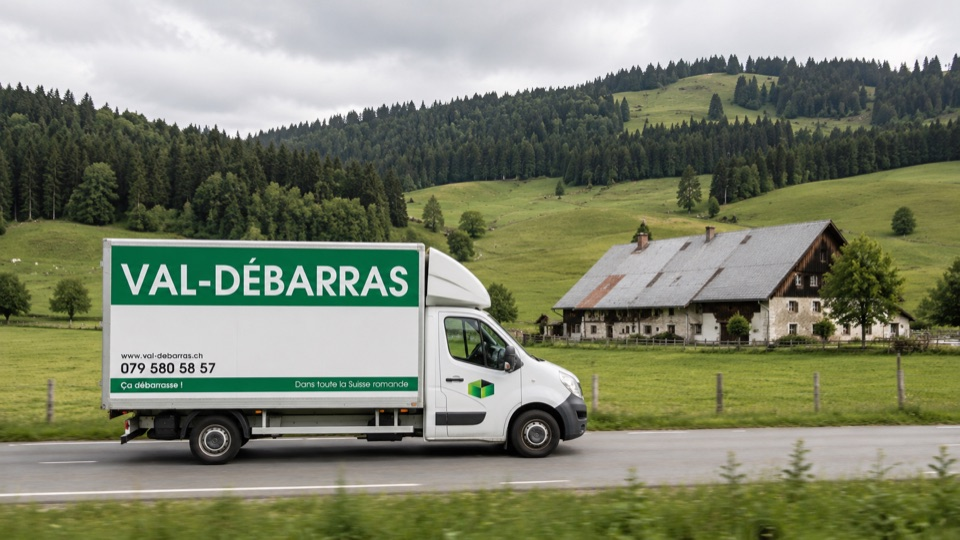
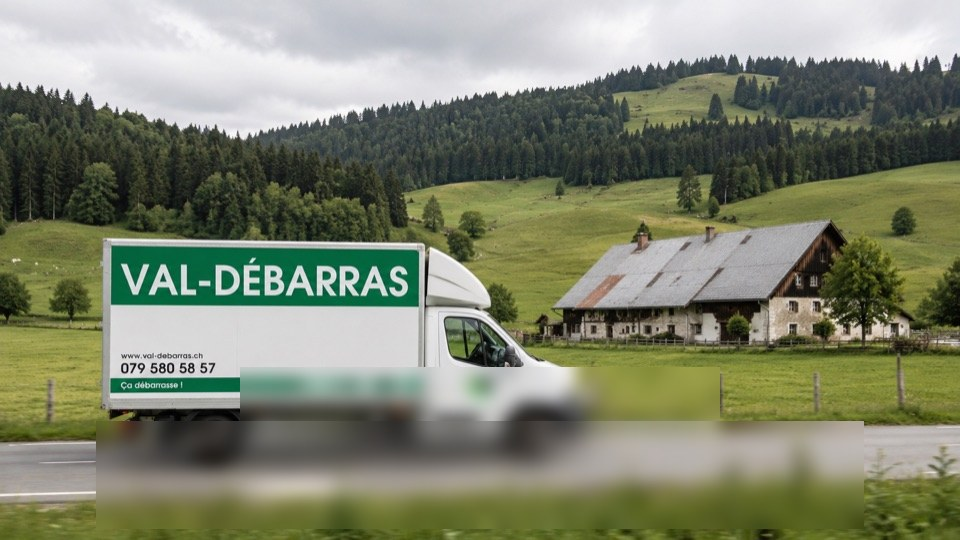
fix(mobile): menu service-first + hero image + floutage plaques
- Hamburger drawer restructuré : services en accordéon de premier niveau, cantons comme liens texte à l'intérieur (sans images répétées)
- Restauration de l'image hero sur mobile (200px, border-radius)
- Masquage limité aux grilles multi-photos (.pm-cell, .about-photos, .fc-photo-grid)
- Floutage des plaques d'immatriculation sur 15 photos de véhicules (PIL pixelation + Gaussian blur)

Changed region(s): [[0.0938, 0.6815, 0.9062, 0.9778]]

diff --git a/index.html b/index.html
@@ -1631,11 +1631,11 @@ body{font-size:16px;line-height:1.7;}
 .drawer-cantons{display:none;padding:0 0 10px 4px;}
 .drawer-cantons.open{display:block;}
 .drawer-cantons a{
-  display:flex;align-items:center;gap:10px;
-  padding:12px 8px;font-size:15px;border-radius:8px;min-height:44px;
+  display:block;
+  padding:10px 8px 10px 16px;font-size:14px;border-radius:8px;
+  color:#374151;font-weight:500;text-decoration:none;transition:background .15s;
 }
-.drawer-cantons a:hover{background:var(--gris-bg);}
-.drawer-cantons .canton-icon{width:22px;height:28px;}
+.drawer-cantons a:hover{background:var(--vert-clair);color:var(--vert);}
 .drawer-actions{margin-top:16px;display:flex;flex-direction:column;gap:10px;width:100%;}
 .drawer-phone{
   display:flex;align-items:center;justify-content:center;gap:10px;
@@ -1691,7 +1691,6 @@ body{font-size:16px;line-height:1.7;}
   body.has-sticky-mobile{padding-bottom:88px;}
 
   .hero-desktop{display:none !important;}
-  .hero-img{display:none !important;}
 
   .stats-inner{grid-template-columns:repeat(2,1fr) !important;}
   .stat{padding:18px 12px !important;}
@@ -1715,18 +1714,11 @@ body{font-size:16px;line-height:1.7;}
     transition:none !important;
   }
 }
-/* === Drawer canton-first service list === */
 .drawer-title{display:flex;align-items:center;gap:10px;}
-.drawer-svc-list a{
-  display:block;padding:9px 12px 9px 32px;font-size:14px;color:#374151;font-weight:500;
-  text-decoration:none;border-radius:6px;transition:background .15s;
-}
-.drawer-svc-list a:hover{background:#f0fdf4;color:var(--vert);}
 
-/* Hide all raster photos on mobile */
+/* Hide heavy photo grids on mobile, keep hero image visible */
 @media (max-width:768px){
-  /* Hero, about, contact photo grids */
-  .hero-img,
+  /* Hide multi-photo grids but keep hero image */
   .about-photos,
   .pm-cell,
   .fc-photo-grid,
@@ -1900,95 +1892,89 @@ body{font-size:16px;line-height:1.7;}
     <button type="button" class="drawer-close" id="drawerClose" aria-label="Fermer le menu"><svg class="icon" aria-hidden="true"><use href="#icon-close"/></svg></button>
   </div>
   <div class="drawer-body">
-    <!-- Grouped by CANTON — each shield appears once -->
+    <!-- Grouped by SERVICE — cantons as text links, no shield images -->
     <div class="drawer-group">
       <button type="button" class="drawer-title" aria-expanded="false">
-        <img src="/images/shield-ge.svg" class="canton-icon" alt="Genève" loading="lazy" style="width:20px;height:26px;flex-shrink:0;">
-        <span>Genève</span>
+        <span>Débarras appartement</span>
         <span class="arr"><svg class="icon" aria-hidden="true"><use href="#icon-chevron-down"/></svg></span>
       </button>
-      <div class="drawer-cantons drawer-svc-list">
-        <a href="/debarras-appartement/geneve/">Débarras appartement</a>
-        <a href="/debarras-maison/geneve/">Débarras maison</a>
-        <a href="/debarras-apres-deces/geneve/">Après décès / succession</a>
-        <a href="/debarras-ems/geneve/">Entrée en EMS</a>
-        <a href="/debarras-insalubre-diogene/geneve/">Diogène &amp; insalubre</a>
-        <a href="/nettoyage-extreme/geneve/">Nettoyage extrême</a>
+      <div class="drawer-cantons">
+        <a href="/debarras-appartement/geneve/">à Genève</a>
+        <a href="/debarras-appartement/vaud/">dans le Vaud</a>
+        <a href="/debarras-appartement/valais/">en Valais</a>
+        <a href="/debarras-appartement/fribourg/">à Fribourg</a>
+        <a href="/debarras-appartement/neuchatel/">à Neuchâtel</a>
+        <a href="/debarras-appartement/jura/">au Jura</a>
       </div>
     </div>
     <div class="drawer-group">
       <button type="button" class="drawer-title" aria-expanded="false">
-        <img src="/images/shield-vd.svg" class="canton-icon" alt="Vaud" loading="lazy" style="width:20px;height:26px;flex-shrink:0;">
-        <span>Vaud</span>
+        <span>Débarras maison</span>
         <span class="arr"><svg class="icon" aria-hidden="true"><use href="#icon-chevron-down"/></svg></span>
       </button>
-      <div class="drawer-cantons drawer-svc-list">
-        <a href="/debarras-appartement/vaud/">Débarras appartement</a>
-        <a href="/debarras-maison/vaud/">Débarras maison</a>
-        <a href="/debarras-apres-deces/vaud/">Après décès / succession</a>
-        <a href="/debarras-ems/vaud/">Entrée en EMS</a>
-        <a href="/debarras-insalubre-diogene/vaud/">Diogène &amp; insalubre</a>
-        <a href="/nettoyage-extreme/vaud/">Nettoyage extrême</a>
+      <div class="drawer-cantons">
+        <a href="/debarras-maison/geneve/">à Genève</a>
+        <a href="/debarras-maison/vaud/">dans le Vaud</a>
+        <a href="/debarras-maison/valais/">en Valais</a>
+        <a href="/debarras-maison/fribourg/">à Fribourg</a>
+        <a href="/debarras-maison/neuchatel/">à Neuchâtel</a>
+        <a href="/debarras-maison/jura/">au Jura</a>
       </div>
     </div>
     <div class="drawer-group">
       <button type="button" class="drawer-title" aria-expanded="false">
-        <img src="/images/shield-vs.svg" class="canton-icon" alt="Valais" loading="lazy" style="width:20px;height:26px;flex-shrink:0;">
-        <span>Valais</span>
+        <span>Après décès / succession</span>
         <span class="arr"><svg class="icon" aria-hidden="true"><use href="#icon-chevron-down"/></svg></span>
       </button>
-      <div class="drawer-cantons drawer-svc-list">
-        <a href="/debarras-appartement/valais/">Débarras appartement</a>
-        <a href="/debarras-maison/valais/">Débarras maison</a>
-        <a href="/debarras-apres-deces/valais/">Après décès / succession</a>
-        <a href="/debarras-ems/valais/">Entrée en EMS</a>
-        <a href="/debarras-insalubre-diogene/valais/">Diogène &amp; insalubre</a>
-        <a href="/nettoyage-extreme/valais/">Nettoyage extrême</a>
+      <div class="drawer-cantons">
+        <a href="/debarras-apres-deces/geneve/">à Genève</a>
+        <a href="/debarras-apres-deces/vaud/">dans le Vaud</a>
+        <a href="/debarras-apres-deces/valais/">en Valais</a>
+        <a href="/debarras-apres-deces/fribourg/">à Fribourg</a>
+        <a href="/debarras-apres-deces/neuchatel/">à Neuchâtel</a>
+        <a href="/debarras-apres-deces/jura/">au Jura</a>
       </div>
     </div>
     <div class="drawer-group">
       <button type="button" class="drawer-title" aria-expanded="false">
-        <img src="/images/shield-fr.svg" class="canton-icon" alt="Fribourg" loading="lazy" style="width:20px;height:26px;flex-shrink:0;">
-        <span>Fribourg</span>
+        <span>Débarras EMS</span>
         <span class="arr"><svg class="icon" aria-hidden="true"><use href="#icon-chevron-down"/></svg></span>
       </button>
-      <div class="drawer-cantons drawer-svc-list">
-        <a href="/debarras-appartement/fribourg/">Débarras appartement</a>
-        <a href="/debarras-maison/fribourg/">Débarras maison</a>
-        <a href="/debarras-apres-deces/fribourg/">Après décès / succession</a>
-        <a href="/debarras-ems/fribourg/">Entrée en EMS</a>
-        <a href="/debarras-insalubre-diogene/fribourg/">Diogène &amp; insalubre</a>
-        <a href="/nettoyage-extreme/fribourg/">Nettoyage extrême</a>
+      <div class="drawer-cantons">
+        <a href="/debarras-ems/geneve/">à Genève</a>
+        <a href="/debarras-ems/vaud/">dans le Vaud</a>
+        <a href="/debarras-ems/valais/">en Valais</a>
+        <a href="/debarras-ems/fribourg/">à Fribourg</a>
+        <a href="/debarras-ems/neuchatel/">à Neuchâtel</a>
+        <a href="/debarras-ems/jura/">au Jura</a>
       </div>
     </div>
     <div class="drawer-group">
       <button type="button" class="drawer-title" aria-expanded="false">
-        <img src="/images/shield-ne.svg" class="canton-icon" alt="Neuchâtel" loading="lazy" style="width:20px;height:26px;flex-shrink:0;">
-        <span>Neuchâtel</span>
+        <span>Diogène &amp; insalubre</span>
         <span class="arr"><svg class="icon" aria-hidden="true"><use href="#icon-chevron-down"/></svg></span>
       </button>
-      <div class="drawer-cantons drawer-svc-list">
-        <a href="/debarras-appartement/neuchatel/">Débarras appartement</a>
-        <a href="/debarras-maison/neuchatel/">Débarras maison</a>
-        <a href="/debarras-apres-deces/neuchatel/">Après décès / succession</a>
-        <a href="/debarras-ems/neuchatel/">Entrée en EMS</a>
-        <a href="/debarras-insalubre-diogene/neuchatel/">Diogène &amp; insalubre</a>
-        <a href="/nettoyage-extreme/neuchatel/">Nettoyage extrême</a>
+      <div class="drawer-cantons">
+        <a href="/debarras-insalubre-diogene/geneve/">à Genève</a>
+        <a href="/debarras-insalubre-diogene/vaud/">dans le Vaud</a>
+        <a href="/debarras-insalubre-diogene/valais/">en Valais</a>
+        <a href="/debarras-insalubre-diogene/fribourg/">à Fribourg</a>
+        <a href="/debarras-insalubre-diogene/neuchatel/">à Neuchâtel</a>
+        <a href="/debarras-insalubre-diogene/jura/">au Jura</a>
       </div>
     </div>
     <div class="drawer-group">
       <button type="button" class="drawer-title" aria-expanded="false">
-        <img src="/images/shield-ju.svg" class="canton-icon" alt="Jura" loading="lazy" style="width:20px;height:26px;flex-shrink:0;">
-        <span>Jura</span>
+        <span>Nettoyage extrême</span>
         <span class="arr"><svg class="icon" aria-hidden="true"><use href="#icon-chevron-down"/></svg></span>
       </button>
-      <div class="drawer-cantons drawer-svc-list">
-        <a href="/debarras-appartement/jura/">Débarras appartement</a>
-        <a href="/debarras-maison/jura/">Débarras maison</a>
-        <a href="/debarras-apres-deces/jura/">Après décès / succession</a>
-        <a href="/debarras-ems/jura/">Entrée en EMS</a>
-        <a href="/debarras-insalubre-diogene/jura/">Diogène &amp; insalubre</a>
-        <a href="/nettoyage-extreme/jura/">Nettoyage extrême</a>
+      <div class="drawer-cantons">
+        <a href="/nettoyage-extreme/geneve/">à Genève</a>
+        <a href="/nettoyage-extreme/vaud/">dans le Vaud</a>
+        <a href="/nettoyage-extreme/valais/">en Valais</a>
+        <a href="/nettoyage-extreme/fribourg/">à Fribourg</a>
+        <a href="/nettoyage-extreme/neuchatel/">à Neuchâtel</a>
+        <a href="/nettoyage-extreme/jura/">au Jura</a>
       </div>
     </div>
     <div class="drawer-actions">
